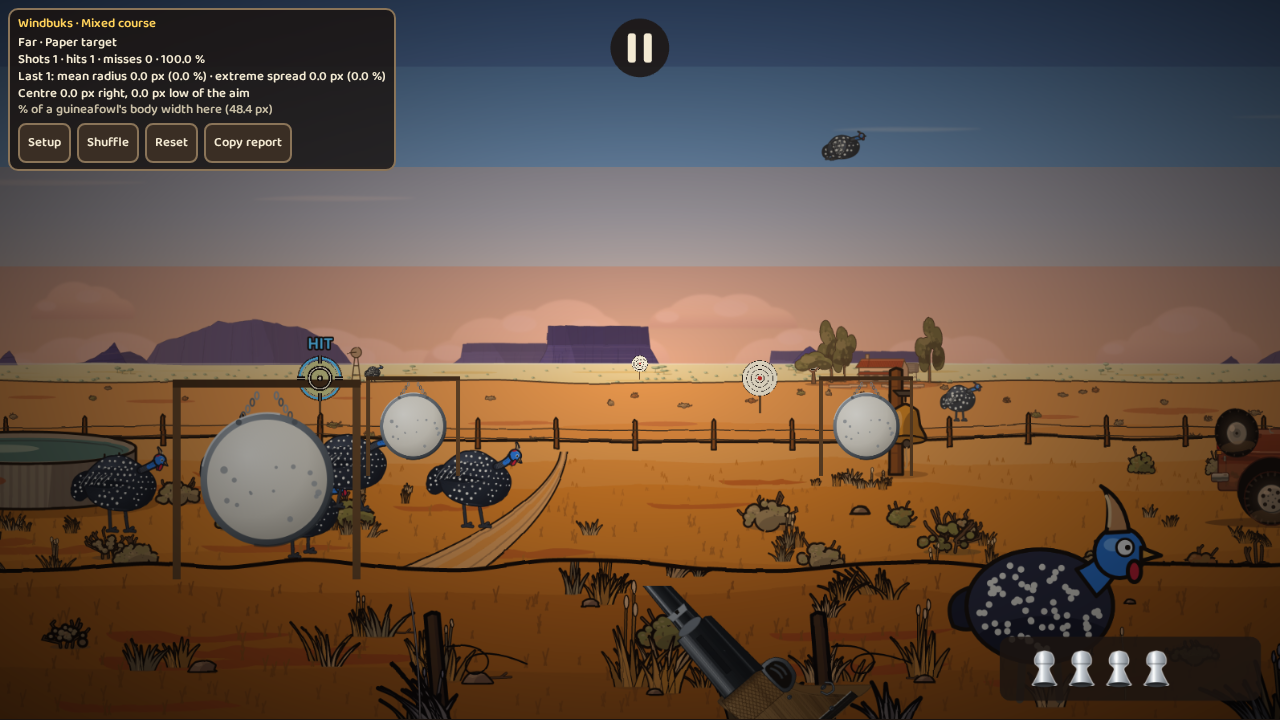
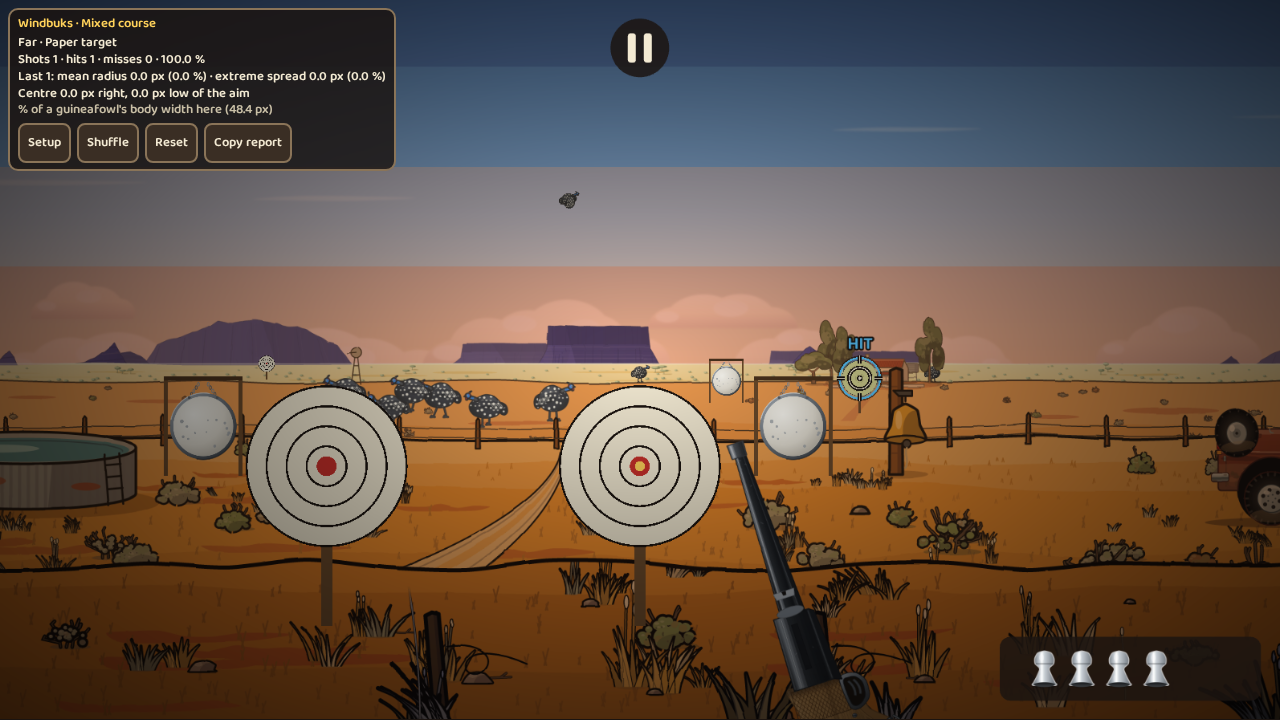
docs(art-preview): Skietbaan mixed course re-spaced (desktop); a narrower plate frame
The plate's crossbar now spans 1.12× its radius (was 1.35×) so the decorative frame doesn't
cross targets of farther planes.

diff --git a/src/game/range/PlateDraw.ts b/src/game/range/PlateDraw.ts
@@ -17,7 +17,7 @@ const WOOD = 0x6b4a2b;
 const WOOD_DARK = 0x4a321d;
 const STEEL = 0x8a9198;
 const PAINT = 0xefeadf;
-const FRAME_HALF = 1.35;
+const FRAME_HALF = 1.12;
 const POST_W = 0.12;
 const LEG_BELOW = 1.5;
 /** Swing: its amplitude (radians), decay time and period (ms). A hit kicks the plate out at
